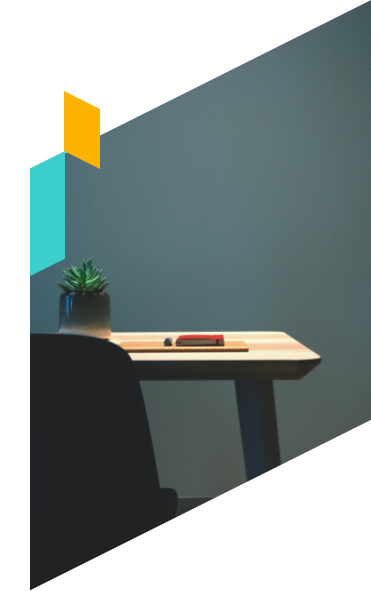
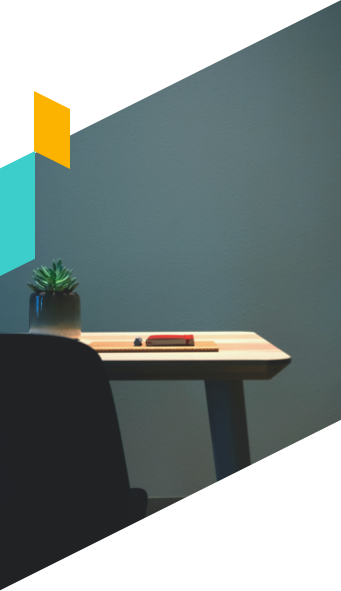
Mobile homepage till langved story and font resizing

diff --git a/home.html b/home.html
@@ -181,11 +181,11 @@
                 <!-- conversation courses container end -->
 		</div>
 
-        <div class="content-top">
+        <div class="content-middle-2">
             <div class="our-upcomers-container">
                 <h2 class="mini-message" style="color:#fcb300;" >Coming Soon</h2>
 				<h2 class="large-message">Our Upcomers</h2>
-				<p class="medium-message-our-ucpomers">Langved is about exploring the world of languages, which brought up other facets to our work. Here’s a sneak peek into our upcoming projects for all you curious linguists.</p>
+				<p class="medium-message-our-upcomers">Langved is about exploring the world of languages, which brought up other facets to our work. Here’s a sneak peek into our upcoming projects for all you curious linguists.</p>
                 <div class="upcomers">
                     <div class="technical-translations">
                         <div class="upcomers-image-container">
@@ -261,26 +261,26 @@
                 <!-- Events and Activities End -->
                 <!-- About Us Start -->
 			<div class="about-us-content-container">
-				<div>
+				<div class="about-us-content">
                     <img src="images/img-langved-story.png"
 					srcset="images/img-langved-story@2x.png 2x,
 							images/img-langved-story@3x.png 3x"
 					class="mobile the-langved-story-img">
 					<div class="top-messsages-about-us">
-						<span class="mini-message-standard-courses">About Us</span>
-						<h2 class="large-message-standard-courses">The Langved Story</h2>
+						<span class="mini-message-langved-story">About Us</span>
+						<h2 class="large-message-langved-story large-message-standard-courses">The Langved Story</h2>
 					</div>
 					<p class="medium-message-about-us">
 						Why does every person have to belong to a single country? What if they could be a native of the entire world? The concept of Langved came up while looking for answers to these questions. With a language-crazy team, a host of interesting projects in our mind and a lot of travelling, we created something we take pride in calling our own.  
 					</p>
-					<a href="#" class="learn-more-standard-courses dark-filled-btn">KNOW MORE</a>
+					<a href="#" class=" knowmore-btn learn-more-standard-courses dark-filled-btn">KNOW MORE</a>
 				</div>
 				<img src="images/img-langved-story1.png"
 					srcset="images/img-langved-story1@2x.png 2x,
 							images/img-langved-story1@3x.png 3x"
 					class="desktop the-langved-story-img">
 			</div>
-                <!-- About Us Start -->
+                <!-- About Us End -->
                 <!-- Our Team Start -->
 			<div class="our-team-container">
 				<h2 class="mini-message" >People</h2>

diff --git a/styles/home-mobile.css b/styles/home-mobile.css
@@ -154,10 +154,58 @@
     font-size: 4vw;
     line-height: normal;
   }
-  .the-langved-story-img {
+  .medium-message-our-upcomers,
+  .medium-message-events-and-activities {
+    padding: 10vw;
+    font-size: 0.75em;
+    font-weight: 600;
+  }
+  .upcomers-content,
+  .events-and-activities-content {
+    font-size: 0.8em;
+    font-weight: 500;
+  }
+  .content-middle-2 {
+    position: static;
+    width: 100vw;
+    margin: 0;
+    margin-top: 60vw;
+  }
+  .about-us-content-container {
     justify-content: left;
+    /* border: 2px solid red; */
+    margin: 0;
+    padding-top: 2em;
+  }
+  .the-langved-story-img {
+    padding: 0;
   }
   .top-messsages-about-us {
-    padding-top: none;
+    text-align: right;
+    padding: 1em;
+  }
+  .mini-message-langved-story {
+    font-family: Poppins;
+    font-size: 0.7em;
+    font-weight: 600;
+    font-stretch: normal;
+    font-style: normal;
+    line-height: normal;
+    color: #26ccc9;
+  }
+  .medium-message-about-us {
+    font-weight: 600;
+    padding: 1em;
+  }
+  .knowmore-btn {
+    display: flex;
+    flex-direction: column;
+    justify-content: center;
+    align-self: center;
+    width: 80vw;
+    margin: 3em;
+  }
+  .large-message-langved-story {
+    text-align: right;
   }
 }

diff --git a/styles/home.css b/styles/home.css
@@ -523,7 +523,13 @@ header {
   z-index: 2;
 }
 
-.medium-message-our-ucpomers,
+.content-middle-2 {
+  width: 80vw;
+  display: flex;
+  flex-direction: column;
+  margin: auto;
+}
+.medium-message-our-upcomers,
 .medium-message-events-and-activities {
   padding-bottom: 3em;
   font-family: Poppins;
@@ -628,6 +634,27 @@ header {
   font-stretch: normal;
   font-style: normal;
   line-height: 2.5;
+  text-align: left;
+  color: #000000;
+}
+.mini-message-langved-story {
+  font-family: Poppins;
+  font-size: 0.5em;
+  font-stretch: normal;
+  font-style: normal;
+  line-height: normal;
+  padding-top: 2em;
+  color: #26ccc9;
+}
+.large-message-langved-story {
+  padding-top: 0.5em;
+  padding-bottom: 0.5em;
+  font-family: Kanit;
+  font-size: 1.4em;
+  font-weight: 600;
+  font-stretch: normal;
+  font-style: normal;
+  line-height: 0.71;
   text-align: left;
   color: #000000;
 }
